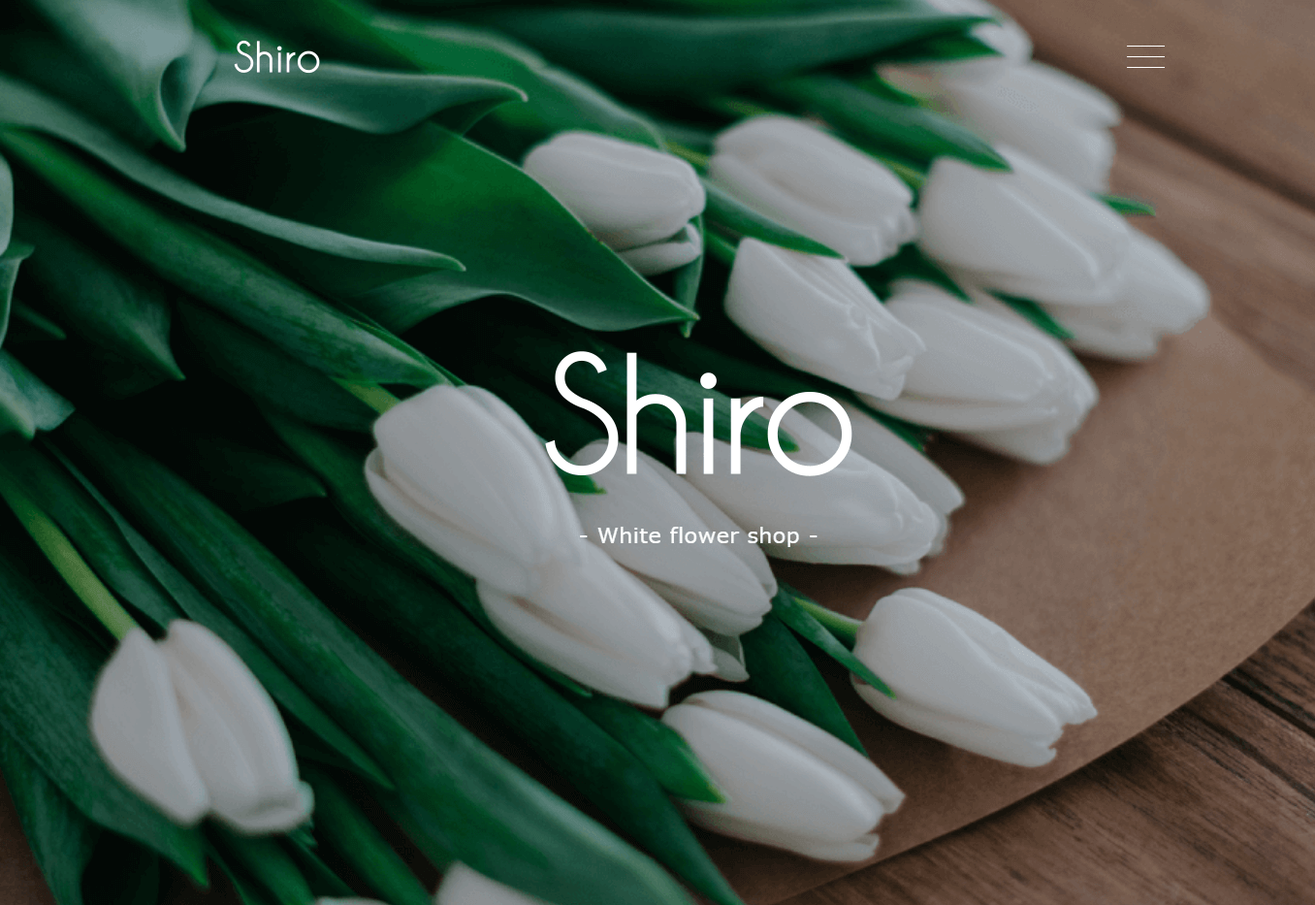
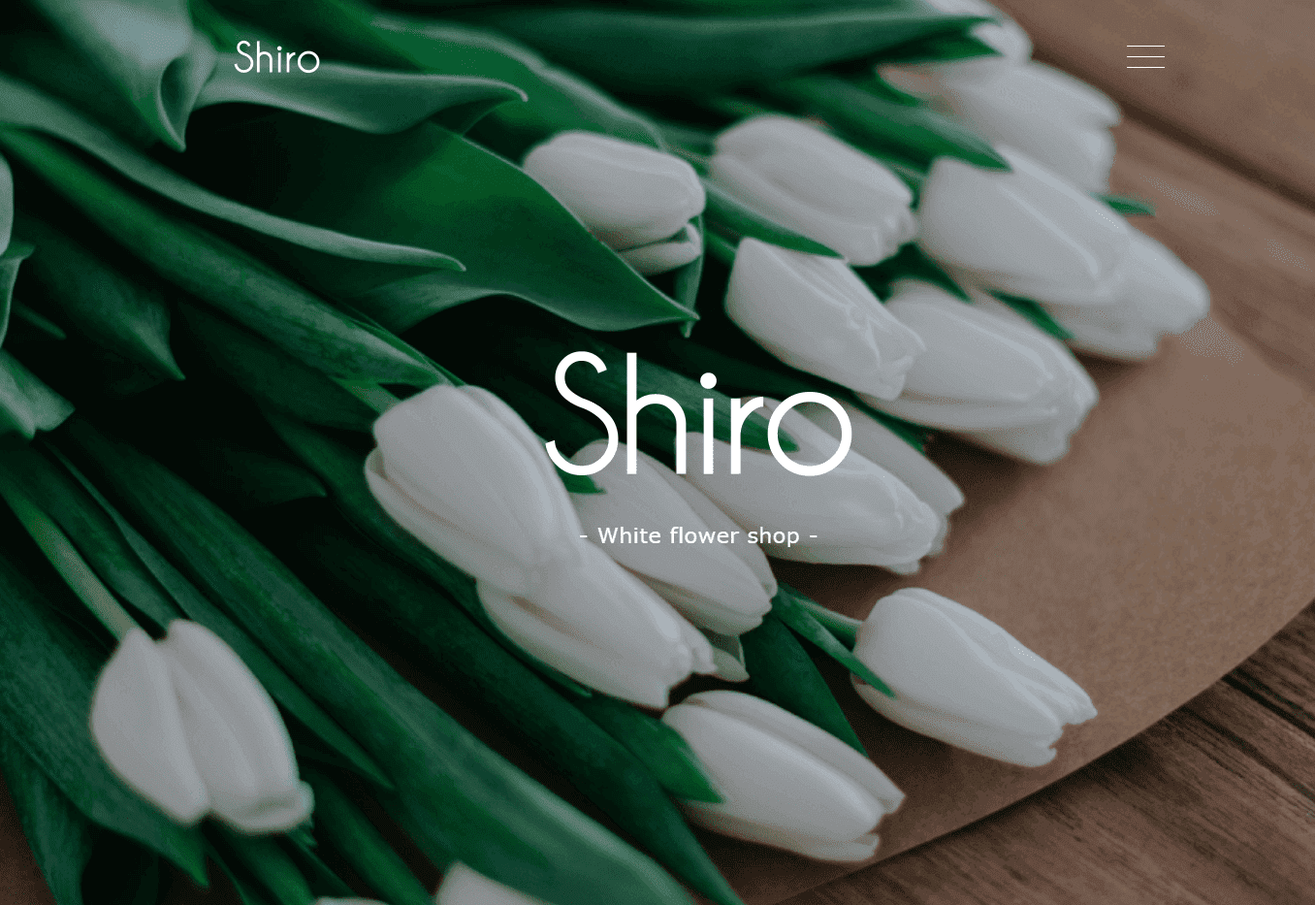
メインカラーを変更

diff --git a/css/style.css b/css/style.css
@@ -1,2 +1,2 @@
-html{font-size:16px;width:100%;height:100%}body{font-family:"Noto Sans", "Noto Sans JP", sans-serif;color:#1c1b15;width:100%;height:100%;line-height:1.2}img{width:100%;vertical-align:top}.section{padding:5em 0;width:100%}@media screen and (max-width: 767px){.section{padding:3em 0}}.section__inner{max-width:1024px;box-sizing:content-box;padding:0 30px;margin:0 auto}.section__heads{display:flex;align-items:center;border-bottom:2px solid #332f2f;margin-bottom:0.6em;padding-bottom:6px}.section__title{font-size:2.5em;margin-right:0.3em}@media screen and (max-width: 767px){.section__title{font-size:1.8em}}.section__title-desc{font-size:1.5em}@media screen and (max-width: 767px){.section__title-desc{font-size:1em}}.button{display:inline-block;text-align:center;font-size:1.125rem;transition:0.3s;color:#1c1b15}@media screen and (max-width: 767px){.button{font-size:1em}}.section__desc{margin-bottom:2em}@media screen and (max-width: 767px){.section__desc{margin-bottom:1em}}.section--bg_gray{background:#f8f9fa}.section__bg--shape_triangle{position:relative}.section__bg--shape_triangle::before,.section__bg--shape_triangle::after{content:"";position:absolute;width:0;height:0;border-style:solid;z-index:-100;left:0}.section__bg--shape_triangle-down::before{top:-5em;border-width:5em 0 0 100vw;border-color:transparent transparent transparent #f8f9fa}.section__bg--shape_triangle-down::after{bottom:-5em;border-width:5em 0 0 100vw;border-color:#f8f9fa transparent transparent transparent}.section__bg--shape_triangle-up::before{top:-5em;border-width:5em 100vw 0 0;border-color:transparent #f8f9fa transparent transparent}.section__bg--shape_triangle-up::after{bottom:-5em;border-width:5em 100vw 0 0;border-color:#f8f9fa transparent transparent transparent}@media screen and (max-width: 1023px){.is-pc{display:none}}@media screen and (min-width: 1024px){.is-tab{display:none}}.is-hide{display:none}.js-hide{opacity:0;transform:translateY(2.5em);transition:all 1s}.js-show{opacity:1;transform:translateY(0)}.loading{width:100vw;height:100vh;background:#fff;position:fixed;top:0;left:0;z-index:200}.loading__img{width:100px;height:100px;position:fixed;top:50%;left:50%;transform:translate(-50%, -50%)}.header{padding:1em 0;background:transparent;position:fixed;top:0;right:0;left:0;z-index:20;transition:all 0.5s ease 0s;color:#fff;background:transparent;width:100%}@media screen and (max-width: 1023px){.header{padding:0.7em 0}}.header--bg_brown{background:#332f2f}.header__inner{box-sizing:content-box;max-width:1100px;padding:0 30px;margin:0 auto;display:flex;justify-content:space-between;align-items:center}.header__logo-wrap{max-width:100px;width:100%}@media screen and (max-width: 1023px){.header__logo-wrap{max-width:70px}}.header__logo{display:inline-block}.header__list{display:flex}.header__item{margin-right:1.5em}.header__item:last-child{margin-right:0}.header__link{display:block;padding-bottom:2px;position:relative}.header__link::after{content:"";position:absolute;left:50%;right:0;bottom:-1px;transform:translateX(-50%);transition:all 0.5s;width:0;height:1px;background:#fff}.header__link:hover::after{width:100%}.header__link--active{border-bottom:1px solid #fff}.hamberger{z-index:120;display:none}@media screen and (max-width: 1023px){.hamberger{display:block}}.hamberger__line-wrap{display:inline-block;width:36px;height:28px;cursor:pointer;position:fixed;top:15px;right:30px;z-index:200;transform:translateX(0);transition:transform 0.5s}.hamberger__line-wrap.open{transform:translateX(-190px)}.hamberger__line{display:inline-block;box-sizing:border-box;position:absolute;left:0;width:100%;height:4px;background-color:#fff;transition:all 0.5s}.hamberger__line:nth-of-type(1){top:0}.hamberger__line-wrap.open .hamberger__line:nth-of-type(1){transform:translateY(12px) rotate(-45deg)}.hamberger__line:nth-of-type(2){top:12px}.hamberger__line-wrap.open .hamberger__line:nth-of-type(2){opacity:0}.hamberger__line:nth-of-type(3){bottom:0}.hamberger__line-wrap.open .hamberger__line:nth-of-type(3){transform:translateY(-12px) rotate(45deg)}.hamberger-menu{width:200px;height:100%;background-color:#332f2f;position:fixed;top:0;right:0;z-index:300;transform:translateX(100%);transition:all 0.5s}.hamberger-menu.open{transform:translateX(0)}.hamberger-menu__item{padding:0.2em 0;border-bottom:1px solid #707070;display:-webkit-box;display:-moz-box;display:-o-box;display:-ms-box;display:box;-o-box-align:center;-ms-box-align:center;box-align:center;padding:0.8em 0 0.8em 0.8em}.hamberger-menu__link{width:100%;color:#fff;text-decoration:none;display:inline-block}.overlay{background:#000000cc;position:fixed;right:0;top:0;width:100%;height:100%;opacity:0;transition:opacity ease 0.5s;z-index:-10}.overlay.open{opacity:1;z-index:110}body.fixed{width:100%;overflow-y:hidden}.top{width:100vw;height:100vh}@media screen and (max-width: 767px){.top{height:80vh}}.top__img-wrap{position:relative;width:100%;height:100%}.top__img{width:100%;height:100%;object-fit:cover}.top__letters-wrap{position:absolute;top:50%;left:10%;transform:translateY(-50%);color:#fff;font-size:3em;text-transform:uppercase}@media screen and (max-width: 767px){.top__letters-wrap{left:5%;font-size:2.25em}}.top__letter{display:inline-block;font-family:"Source Serif Pro", serif}.top__button-wrap{position:absolute;left:50%;transform:translateX(-50%);bottom:10%}.top__button{max-width:300px;padding:1em 1.5em;color:#fff;background:#2cc438}@media screen and (max-width: 767px){.top__button{padding:1em 1.25em;min-width:168px}}.top__button:hover{color:#fff;background:#332f2f}.top__button:active{transform:translateY(4px)}.about{padding:5em 0 7em}.about__contents-wrap{display:flex;align-items:center}@media screen and (max-width: 767px){.about__contents-wrap{display:block}}.about__content{flex:0 1 48%}.about__content:first-child{margin-right:4%}@media screen and (max-width: 767px){.about__content:first-child{margin-right:0;margin-bottom:2em}}.about__img-wrap{position:relative;padding-top:70%}.about__img{position:absolute;top:0%;left:0;right:0;width:100%;height:100%;object-fit:cover}.about__content--desc{text-align:center}@media screen and (max-width: 767px){.about__content--desc{text-align:left}}.about__intro{margin-bottom:0.5em;line-height:1.5}.about__name{color:#d11313;font-weight:bold;font-size:1.2em}.about__reason{margin-bottom:1em}.button--shape_circle{border-radius:50%;padding:10px 8px;max-width:42px;width:100%}.about__button{margin-right:1em;background:transparent;border:2px solid #1c1b15}.about__button:hover{background:#332f2f}.about__button:hover .button__icon--twitter,.about__button:hover .button__icon--facebook{color:#fff}.about__button:last-child{margin-right:0}.skills{display:flex;flex-wrap:wrap;justify-content:center}@media screen and (max-width: 767px){.skills{display:block}}.skill__item{flex:0 1 calc(33.3333% - 20px);margin-right:30px;margin-bottom:2em;padding:1.5em 1em;border:1px solid #dcdcdc}@media all and (-ms-high-contrast: none){.skill__item{flex:0 1 27.6367%;margin-right:2.9297%}}@media screen and (min-width: 1024px){.skill__item:nth-child(3n){margin-right:0}.skill__item:nth-child(n+4){margin-bottom:0}}@media screen and (max-width: 767px){.skill__item{width:100%;margin-bottom:30px}.skill__item:last-child{margin-bottom:0}}.skill__icon-wrap{text-align:center;padding:2.5em 0}@media screen and (max-width: 767px){.skill__icon-wrap{padding:1.8em 0}}.skill__title{font-size:1.3em;text-align:center;margin-bottom:1em;position:relative}.skill__title::after{content:"";position:absolute;bottom:-10px;left:50%;transform:translateX(-50%);width:40px;height:2px;background:#000}.flow{padding:7em 0}.cards{display:flex}@media screen and (max-width: 767px){.cards{display:block}}.cards__item{flex:0 1 calc(33.3333% - 20px);margin-right:30px;border:1px solid #dcdcdc;box-shadow:2px 2px 8px -2px #707070}@media all and (-ms-high-contrast: none){.cards__item{flex:0 1 31.1844%;margin-right:2.9297%}}.cards__item:last-child{margin-right:0}@media screen and (max-width: 767px){.cards__item{margin-right:0;margin-bottom:30px}}.card__img-wrap{position:relative;padding-top:62.5%}.card__img{position:absolute;top:0;left:0;right:0;width:100%;height:100%}.card__body{padding:1.5em 0.5em}.card__title{font-size:1.3em;margin-bottom:0.8em}.work__desc{margin-bottom:0}.work__basic{margin-bottom:2em}.work__items{margin-bottom:1em}.works__item{width:100%;display:block;position:relative;padding-top:64.7058%;overflow:hidden;background:#000}.works__img{position:absolute;left:0;right:0;top:0;width:100%;height:100%;display:block;transition:all 0.3s;object-fit:cover}.works__img:hover{transform:scale(1.1);opacity:0.4}@media all and (-ms-high-contrast: none){.works__img:hover{transform:scale(0)}}.swiper-button-prev,.swiper-button-next{width:40px;height:40px;border-radius:50%;background:#332f2f}.swiper-button-prev::after,.swiper-button-next::after{font-size:24px;color:#fff}.swiper-button-prev:hover,.swiper-button-next:hover{opacity:0.7}.swiper-button-next::after{transform:translateX(2px)}@media all and (-ms-high-contrast: none){.swiper-button-next::after{content:">"}}.swiper-button-prev::after{transform:translateX(-2px)}@media all and (-ms-high-contrast: none){.swiper-button-prev::after{content:"<"}}.swiper-pagination{position:static;text-align:center;padding-left:4px}.work__pagination{margin-bottom:2.25em}@media screen and (max-width: 767px){.work__pagination{text-align:center;margin-bottom:1.5em}}.swiper-pagination-bullet{width:12px;height:12px;background:#332f2f;margin-right:1.25em;position:relative;opacity:0.9}.swiper-pagination-bullet:focus{outline:none}.swiper-pagination-bullet-active{opacity:1}.swiper-pagination-bullet-active::after{content:"";position:absolute;top:50%;left:50%;transform:translate(-50%, -50%);width:20px;height:20px;border:2px solid #332f2f;border-radius:50%}.contact{padding:7em 0 5em}.form__table-wrap{max-width:767px;width:100%;margin:0 auto;margin-bottom:2em}.form__table{width:100%;table-layout:fixed;border:1px solid #707070;border-collapse:collapse;background:#fff}.form__label-wrap,.form__input-wrap,.form__textarea-wrap{padding:1em 1.5em;border:1px solid #707070;vertical-align:middle}.form__label-wrap{background:#332f2f;color:#fff;width:250px;font-weight:normal}@media screen and (max-width: 767px){.form__label-wrap{display:block;width:100%}}.error-msg{color:#ff0000}.form__label-wrap--textarea{vertical-align:top}.form__label--input_required::after,.form__label--input_optional::after{display:inline-block;margin-left:5px;padding:5px}.form__label--input_required::after{content:"必須";background:#d11313}.form__label--input_optional::after{content:"任意";background:#6d9edd}.form__input-wrap,.form__textarea-wrap{width:calc(100% - 250px)}@media screen and (max-width: 767px){.form__input-wrap,.form__textarea-wrap{display:block;width:100%}}.form__input{width:100%;border:1px solid #707070;padding:0.5em 0.5em;appearance:none;background-color:transparent;background-image:none;border-radius:0;color:inherit;font-family:inherit;font-size:1em;box-shadow:none;height:38px;display:block;margin-bottom:4px}.form__textarea{width:100%;height:240px;border:1px solid #707070;resize:none;padding:0.5em 0.5em;appearance:none;background-color:transparent;background-image:none;border-radius:0;color:inherit;font-family:inherit;font-size:1em;vertical-align:bottom;line-height:1.5}.form__example{color:#707070;line-height:1}.form__button-wrap{text-align:center}.form__button{width:100%;max-width:200px;padding:14px 18px;background:#fff;color:#1c1b15;font-size:1.125em;border:2px solid #332f2f}.form__button:hover{color:#fff;background:#332f2f}.form__button:disabled{background-color:#ccc;border-color:#ccc;color:#fff}.form__end-message{display:none;padding:1em 0;background:#f8f9fa;font-size:1.125em;text-align:center}.form__false-message{display:none;padding:1em 0;background:#f8f9fa;font-size:1.125em;text-align:center;color:#ff0000}.err-message{color:#ff0000;font-weight:bold}.footer{background:#332f2f;padding:4em 0;text-align:center}.footer__button-wrap{margin-bottom:2em}.button--bg_dark{background:#474444}.button--bg_dark:hover{background:#e2dddd}.footer__button{margin-right:1em}.footer__button:last-child{margin-right:0}.footer__button:hover .footer__icon{color:#332f2f}.footer__icon{color:#bbadad}.footer__copyright{font-size:0.875em;color:#bbadad}.complete-wrap{width:100%;height:100vh;position:relative;display:flex;justify-content:center;align-items:center}.complete-wrap .footer{position:absolute;bottom:0%;left:0;right:0;width:100%}.complete__inner{max-width:1024px;box-sizing:content-box;margin:0 auto;padding:0 2.5em}@media screen and (max-width: 767px){.complete__inner{padding:0 1.25em}}.complete__message{font-size:1.75em;margin-bottom:1em;text-align:center;padding:2em 1em}@media screen and (max-width: 767px){.complete__message{font-size:1.25em}}
+html{font-size:16px;width:100%;height:100%}body{font-family:"Noto Sans", "Noto Sans JP", sans-serif;color:#1c1b15;width:100%;height:100%;line-height:1.2}img{width:100%;vertical-align:top}.section{padding:5em 0;width:100%}@media screen and (max-width: 767px){.section{padding:3em 0}}.section__inner{max-width:1024px;box-sizing:content-box;padding:0 30px;margin:0 auto}.section__heads{display:flex;align-items:center;border-bottom:2px solid #073770;margin-bottom:0.6em;padding-bottom:6px}.section__title{font-size:2.5em;margin-right:0.3em}@media screen and (max-width: 767px){.section__title{font-size:1.8em}}.section__title-desc{font-size:1.5em}@media screen and (max-width: 767px){.section__title-desc{font-size:1em}}.button{display:inline-block;text-align:center;font-size:1.125rem;transition:0.3s;color:#1c1b15}@media screen and (max-width: 767px){.button{font-size:1em}}.section__desc{margin-bottom:2em}@media screen and (max-width: 767px){.section__desc{margin-bottom:1em}}.section--bg_gray{background:#f8f9fa}.section__bg--shape_triangle{position:relative}.section__bg--shape_triangle::before,.section__bg--shape_triangle::after{content:"";position:absolute;width:0;height:0;border-style:solid;z-index:-100;left:0}.section__bg--shape_triangle-down::before{top:-5em;border-width:5em 0 0 100vw;border-color:transparent transparent transparent #f8f9fa}.section__bg--shape_triangle-down::after{bottom:-5em;border-width:5em 0 0 100vw;border-color:#f8f9fa transparent transparent transparent}.section__bg--shape_triangle-up::before{top:-5em;border-width:5em 100vw 0 0;border-color:transparent #f8f9fa transparent transparent}.section__bg--shape_triangle-up::after{bottom:-5em;border-width:5em 100vw 0 0;border-color:#f8f9fa transparent transparent transparent}@media screen and (max-width: 1023px){.is-pc{display:none}}@media screen and (min-width: 1024px){.is-tab{display:none}}.is-hide{display:none}.js-hide{opacity:0;transform:translateY(2.5em);transition:all 1s}.js-show{opacity:1;transform:translateY(0)}.loading{width:100vw;height:100vh;background:#fff;position:fixed;top:0;left:0;z-index:200}.loading__img{width:100px;height:100px;position:fixed;top:50%;left:50%;transform:translate(-50%, -50%)}.header{padding:1em 0;background:transparent;position:fixed;top:0;right:0;left:0;z-index:20;transition:all 0.5s ease 0s;color:#fff;background:transparent;width:100%}@media screen and (max-width: 1023px){.header{padding:0.7em 0}}.header--bg_brown{background:#073770}.header__inner{box-sizing:content-box;max-width:1100px;padding:0 30px;margin:0 auto;display:flex;justify-content:space-between;align-items:center}.header__logo-wrap{max-width:100px;width:100%}@media screen and (max-width: 1023px){.header__logo-wrap{max-width:70px}}.header__logo{display:inline-block}.header__list{display:flex}.header__item{margin-right:1.5em}.header__item:last-child{margin-right:0}.header__link{display:block;padding-bottom:2px;position:relative}.header__link::after{content:"";position:absolute;left:50%;right:0;bottom:-1px;transform:translateX(-50%);transition:all 0.5s;width:0;height:1px;background:#fff}.header__link:hover::after{width:100%}.header__link--active{border-bottom:1px solid #fff}.hamberger{z-index:120;display:none}@media screen and (max-width: 1023px){.hamberger{display:block}}.hamberger__line-wrap{display:inline-block;width:36px;height:28px;cursor:pointer;position:fixed;top:15px;right:30px;z-index:200;transform:translateX(0);transition:transform 0.5s}.hamberger__line-wrap.open{transform:translateX(-190px)}.hamberger__line{display:inline-block;box-sizing:border-box;position:absolute;left:0;width:100%;height:4px;background-color:#fff;transition:all 0.5s}.hamberger__line:nth-of-type(1){top:0}.hamberger__line-wrap.open .hamberger__line:nth-of-type(1){transform:translateY(12px) rotate(-45deg)}.hamberger__line:nth-of-type(2){top:12px}.hamberger__line-wrap.open .hamberger__line:nth-of-type(2){opacity:0}.hamberger__line:nth-of-type(3){bottom:0}.hamberger__line-wrap.open .hamberger__line:nth-of-type(3){transform:translateY(-12px) rotate(45deg)}.hamberger-menu{width:200px;height:100%;background-color:#073770;position:fixed;top:0;right:0;z-index:300;transform:translateX(100%);transition:all 0.5s}.hamberger-menu.open{transform:translateX(0)}.hamberger-menu__item{padding:0.2em 0;border-bottom:1px solid #707070;display:-webkit-box;display:-moz-box;display:-o-box;display:-ms-box;display:box;-o-box-align:center;-ms-box-align:center;box-align:center;padding:0.8em 0 0.8em 0.8em}.hamberger-menu__link{width:100%;color:#fff;text-decoration:none;display:inline-block}.overlay{background:#000000cc;position:fixed;right:0;top:0;width:100%;height:100%;opacity:0;transition:opacity ease 0.5s;z-index:-10}.overlay.open{opacity:1;z-index:110}body.fixed{width:100%;overflow-y:hidden}.top{width:100vw;height:100vh}@media screen and (max-width: 767px){.top{height:80vh}}.top__img-wrap{position:relative;width:100%;height:100%}.top__img{width:100%;height:100%;object-fit:cover}.top__letters-wrap{position:absolute;top:50%;left:10%;transform:translateY(-50%);color:#fff;font-size:3em;text-transform:uppercase}@media screen and (max-width: 767px){.top__letters-wrap{left:5%;font-size:2.25em}}.top__letter{display:inline-block;font-family:"Source Serif Pro", serif}.top__button-wrap{position:absolute;left:10%;bottom:20%}@media screen and (max-width: 767px){.top__button-wrap{left:5%}}.top__button{max-width:300px;padding:1em 1.5em;color:#fff;background:#2cc438}@media screen and (max-width: 767px){.top__button{padding:1em 1.25em;min-width:168px}}.top__button:hover{color:#fff;background:#073770}.top__button:active{transform:translateY(4px)}.about{padding:5em 0 7em}.about__contents-wrap{display:flex;align-items:center}@media screen and (max-width: 767px){.about__contents-wrap{display:block}}.about__content{flex:0 1 48%}.about__content:first-child{margin-right:4%}@media screen and (max-width: 767px){.about__content:first-child{margin-right:0;margin-bottom:2em}}.about__img-wrap{position:relative;padding-top:70%}.about__img{position:absolute;top:0%;left:0;right:0;width:100%;height:100%;object-fit:cover}.about__content--desc{text-align:center}@media screen and (max-width: 767px){.about__content--desc{text-align:left}}.about__intro{margin-bottom:0.5em;line-height:1.5}.about__name{color:#d11313;font-weight:bold;font-size:1.2em}.about__reason{margin-bottom:1em}.button--shape_circle{border-radius:50%;padding:10px 8px;max-width:42px;width:100%}.about__button{margin-right:1em;background:transparent;border:2px solid #1c1b15}.about__button:hover{background:#073770}.about__button:hover .button__icon--twitter,.about__button:hover .button__icon--facebook{color:#fff}.about__button:last-child{margin-right:0}.skills{display:flex;flex-wrap:wrap;justify-content:center}@media screen and (max-width: 767px){.skills{display:block}}.skill__item{flex:0 1 calc(33.3333% - 20px);margin-right:30px;margin-bottom:2em;padding:1.5em 1em;border:1px solid #dcdcdc}@media all and (-ms-high-contrast: none){.skill__item{flex:0 1 27.6367%;margin-right:2.9297%}}@media screen and (min-width: 1024px){.skill__item:nth-child(3n){margin-right:0}.skill__item:nth-child(n+4){margin-bottom:0}}@media screen and (max-width: 767px){.skill__item{width:100%;margin-bottom:30px}.skill__item:last-child{margin-bottom:0}}.skill__icon-wrap{text-align:center;padding:2.5em 0}@media screen and (max-width: 767px){.skill__icon-wrap{padding:1.8em 0}}.skill__title{font-size:1.3em;text-align:center;margin-bottom:1em;position:relative}.skill__title::after{content:"";position:absolute;bottom:-10px;left:50%;transform:translateX(-50%);width:40px;height:2px;background:#000}.flow{padding:7em 0}.cards{display:flex}@media screen and (max-width: 767px){.cards{display:block}}.cards__item{flex:0 1 calc(33.3333% - 20px);margin-right:30px;border:1px solid #dcdcdc;box-shadow:2px 2px 8px -2px #707070}@media all and (-ms-high-contrast: none){.cards__item{flex:0 1 31.1844%;margin-right:2.9297%}}.cards__item:last-child{margin-right:0}@media screen and (max-width: 767px){.cards__item{margin-right:0;margin-bottom:30px}}.card__img-wrap{position:relative;padding-top:62.5%}.card__img{position:absolute;top:0;left:0;right:0;width:100%;height:100%}.card__body{padding:1.5em 0.5em}.card__title{font-size:1.3em;margin-bottom:0.8em}.work__desc{margin-bottom:0}.work__basic{margin-bottom:2em}.work__items{margin-bottom:1em}.works__item{width:100%;display:block;position:relative;padding-top:64.7058%;overflow:hidden;background:#000}.works__img{position:absolute;left:0;right:0;top:0;width:100%;height:100%;display:block;transition:all 0.3s;object-fit:cover}.works__img:hover{transform:scale(1.1);opacity:0.4}@media all and (-ms-high-contrast: none){.works__img:hover{transform:scale(0)}}.swiper-button-prev,.swiper-button-next{width:40px;height:40px;border-radius:50%;background:#073770}.swiper-button-prev::after,.swiper-button-next::after{font-size:24px;color:#fff}.swiper-button-prev:hover,.swiper-button-next:hover{opacity:0.7}.swiper-button-next::after{transform:translateX(2px)}@media all and (-ms-high-contrast: none){.swiper-button-next::after{content:">"}}.swiper-button-prev::after{transform:translateX(-2px)}@media all and (-ms-high-contrast: none){.swiper-button-prev::after{content:"<"}}.swiper-pagination{position:static;text-align:center;padding-left:4px}.work__pagination{margin-bottom:2.25em}@media screen and (max-width: 767px){.work__pagination{text-align:center;margin-bottom:1.5em}}.swiper-pagination-bullet{width:12px;height:12px;background:#073770;margin-right:1.25em;position:relative;opacity:0.9}.swiper-pagination-bullet:focus{outline:none}.swiper-pagination-bullet-active{opacity:1}.swiper-pagination-bullet-active::after{content:"";position:absolute;top:50%;left:50%;transform:translate(-50%, -50%);width:20px;height:20px;border:2px solid #073770;border-radius:50%}.contact{padding:7em 0 5em}.form__table-wrap{max-width:767px;width:100%;margin:0 auto;margin-bottom:2em}.form__table{width:100%;table-layout:fixed;border:1px solid #707070;border-collapse:collapse;background:#fff}.form__label-wrap,.form__input-wrap,.form__textarea-wrap{padding:1em 1.5em;border:1px solid #707070;vertical-align:middle}.form__label-wrap{background:#073770;color:#fff;width:250px;font-weight:normal}@media screen and (max-width: 767px){.form__label-wrap{display:block;width:100%}}.error-msg{color:#ff0000}.form__label-wrap--textarea{vertical-align:top}.form__label--input_required::after,.form__label--input_optional::after{display:inline-block;margin-left:5px;padding:5px}.form__label--input_required::after{content:"必須";background:#d11313}.form__label--input_optional::after{content:"任意";background:#6d9edd}.form__input-wrap,.form__textarea-wrap{width:calc(100% - 250px)}@media screen and (max-width: 767px){.form__input-wrap,.form__textarea-wrap{display:block;width:100%}}.form__input{width:100%;border:1px solid #707070;padding:0.5em 0.5em;appearance:none;background-color:transparent;background-image:none;border-radius:0;color:inherit;font-family:inherit;font-size:1em;box-shadow:none;height:38px;display:block;margin-bottom:4px}.form__textarea{width:100%;height:240px;border:1px solid #707070;resize:none;padding:0.5em 0.5em;appearance:none;background-color:transparent;background-image:none;border-radius:0;color:inherit;font-family:inherit;font-size:1em;vertical-align:bottom;line-height:1.5}.form__example{color:#707070;line-height:1}.form__button-wrap{text-align:center}.form__button{width:100%;max-width:200px;padding:14px 18px;background:#fff;color:#1c1b15;font-size:1.125em;border:2px solid #073770}.form__button:hover{color:#fff;background:#073770}.form__button:disabled{background-color:#ccc;border-color:#ccc;color:#fff}.form__end-message{display:none;padding:1em 0;background:#f8f9fa;font-size:1.125em;text-align:center}.form__false-message{display:none;padding:1em 0;background:#f8f9fa;font-size:1.125em;text-align:center;color:#ff0000}.err-message{color:#ff0000;font-weight:bold}.footer{background:#073770;padding:4em 0;text-align:center}.footer__button-wrap{margin-bottom:2em}.button--bg_dark{background:#474444}.button--bg_dark:hover{background:#e2dddd}.footer__button{margin-right:1em}.footer__button:last-child{margin-right:0}.footer__button:hover .footer__icon{color:#073770}.footer__icon{color:#bbadad}.footer__copyright{font-size:0.875em;color:#bbadad}.complete-wrap{width:100%;height:100vh;position:relative;display:flex;justify-content:center;align-items:center}.complete-wrap .footer{position:absolute;bottom:0%;left:0;right:0;width:100%}.complete__inner{max-width:1024px;box-sizing:content-box;margin:0 auto;padding:0 2.5em}@media screen and (max-width: 767px){.complete__inner{padding:0 1.25em}}.complete__message{font-size:1.75em;margin-bottom:1em;text-align:center;padding:2em 1em}@media screen and (max-width: 767px){.complete__message{font-size:1.25em}}
 /*# sourceMappingURL=style.css.map */

diff --git a/css/style.scss b/css/style.scss
@@ -3,7 +3,7 @@
 $font-color: #1c1b15;
 $bg-color: #bcbabe;
 $border-color: #dcdcdc;
-$main-bg-color: rgb(51, 47, 47);
+$main-bg-color: #073770;
 
 html {
   font-size: 16px;
@@ -479,9 +479,12 @@ body.fixed {
 
 .top__button-wrap {
   position: absolute;
-  left: 50%;
-  transform: translateX(-50%);
-  bottom: 10%;
+  left: 10%;
+  bottom: 20%;
+
+  @include mq("sp") {
+    left: 5%;
+  }
 }
 
 .top__button {

diff --git a/index.php b/index.php
@@ -168,7 +168,7 @@ if (isset($_POST['back']) && $_POST['back']) {
                         <span class="top__letter">で</span><!-- /.top__letter -->
                         <span class="top__letter">す</span><!-- /.top__letter -->
                     </div><!-- /.top__letters-wrap -->
-                    <img src="./img/hero_bg.jpg" alt="" class="top__img">
+                    <img src="./img/bg-min.jpg" alt="トップ" class="top__img">
                     <div class="top__button-wrap">
                         <a href="#contact" class="button top__button">お問い合わせする</a><!-- /.button top__button -->
                     </div><!-- /.top__button-wrap -->
@@ -298,7 +298,7 @@ if (isset($_POST['back']) && $_POST['back']) {
                         <h2 class="section__title">ー作品ー</h2><!-- /.about_title -->
                     </div><!-- /.section__heads -->
                     <div class="section__desc work__desc">作成したWebサイトを掲載いたします。クリックするとそのサイトに移動します。</div><!-- /.section__desc -->
-                    <p class="work__basic">※Basic認証があるサイトはユーザー名：portfolio、パスワード：a9VXhWzYを入力してください。</p><!-- /.work__basic -->
+                    <p class="work__basic">※Basic認証があるサイトはユーザー名：portfolio、パスワード：pswd9038を入力してください。</p><!-- /.work__basic -->
                     <div class="works-wrap work__items swiper-container js-hide">
                         <div class="works swiper-wrapper">
                             <div class="works__item-wrap swiper-slide">
